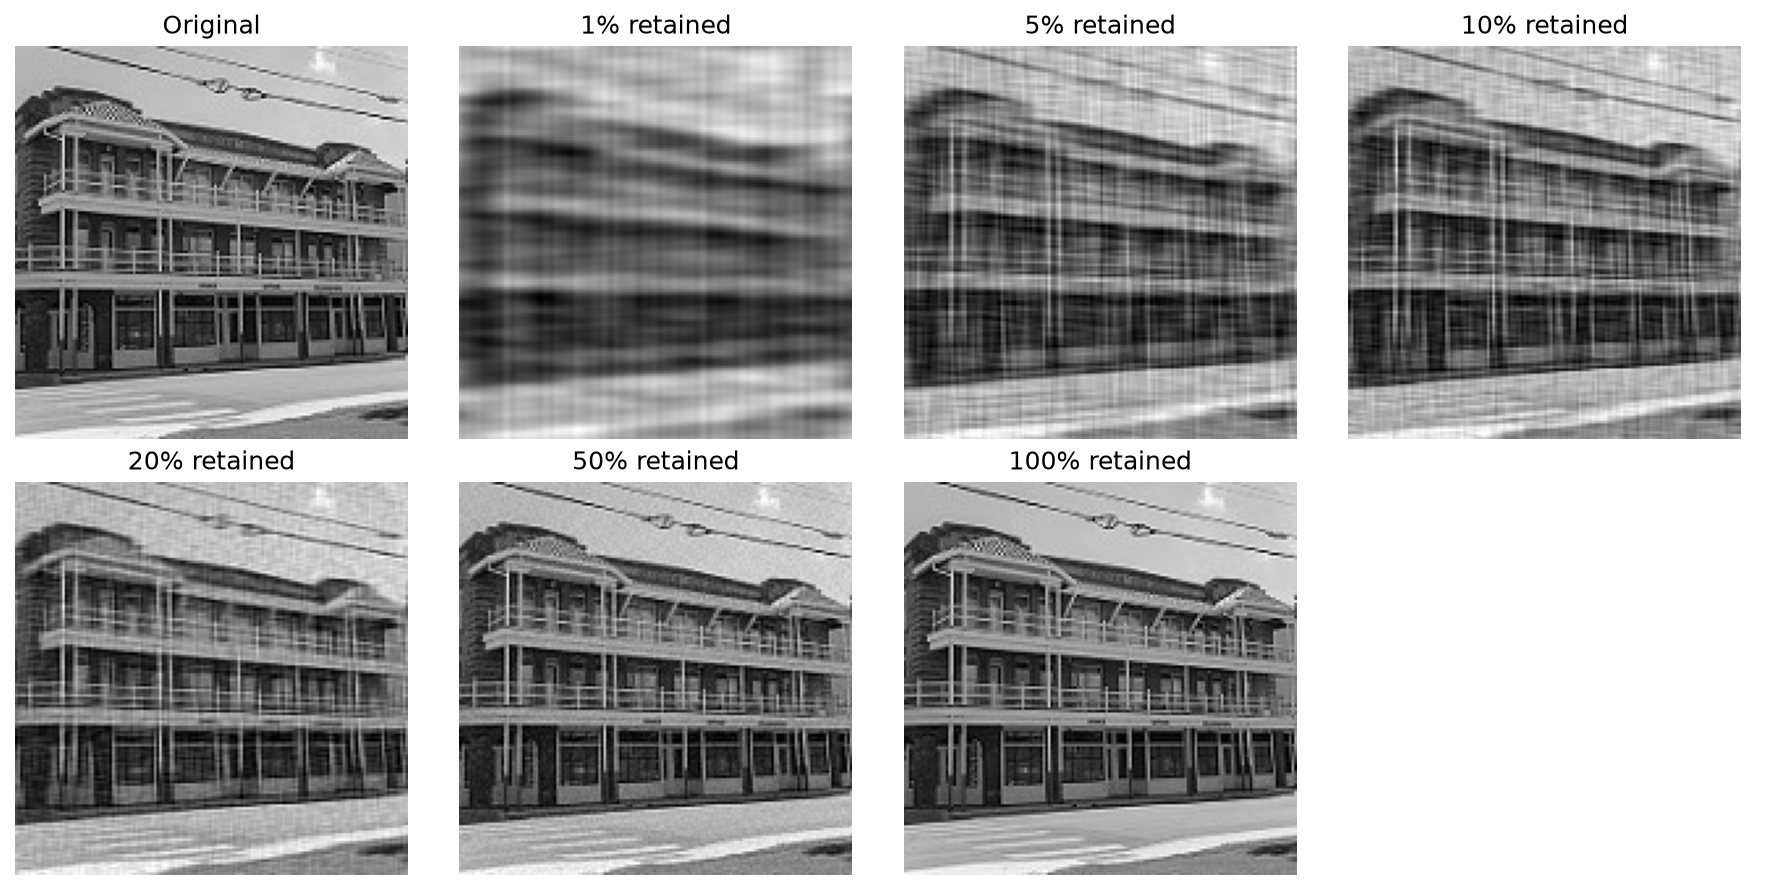
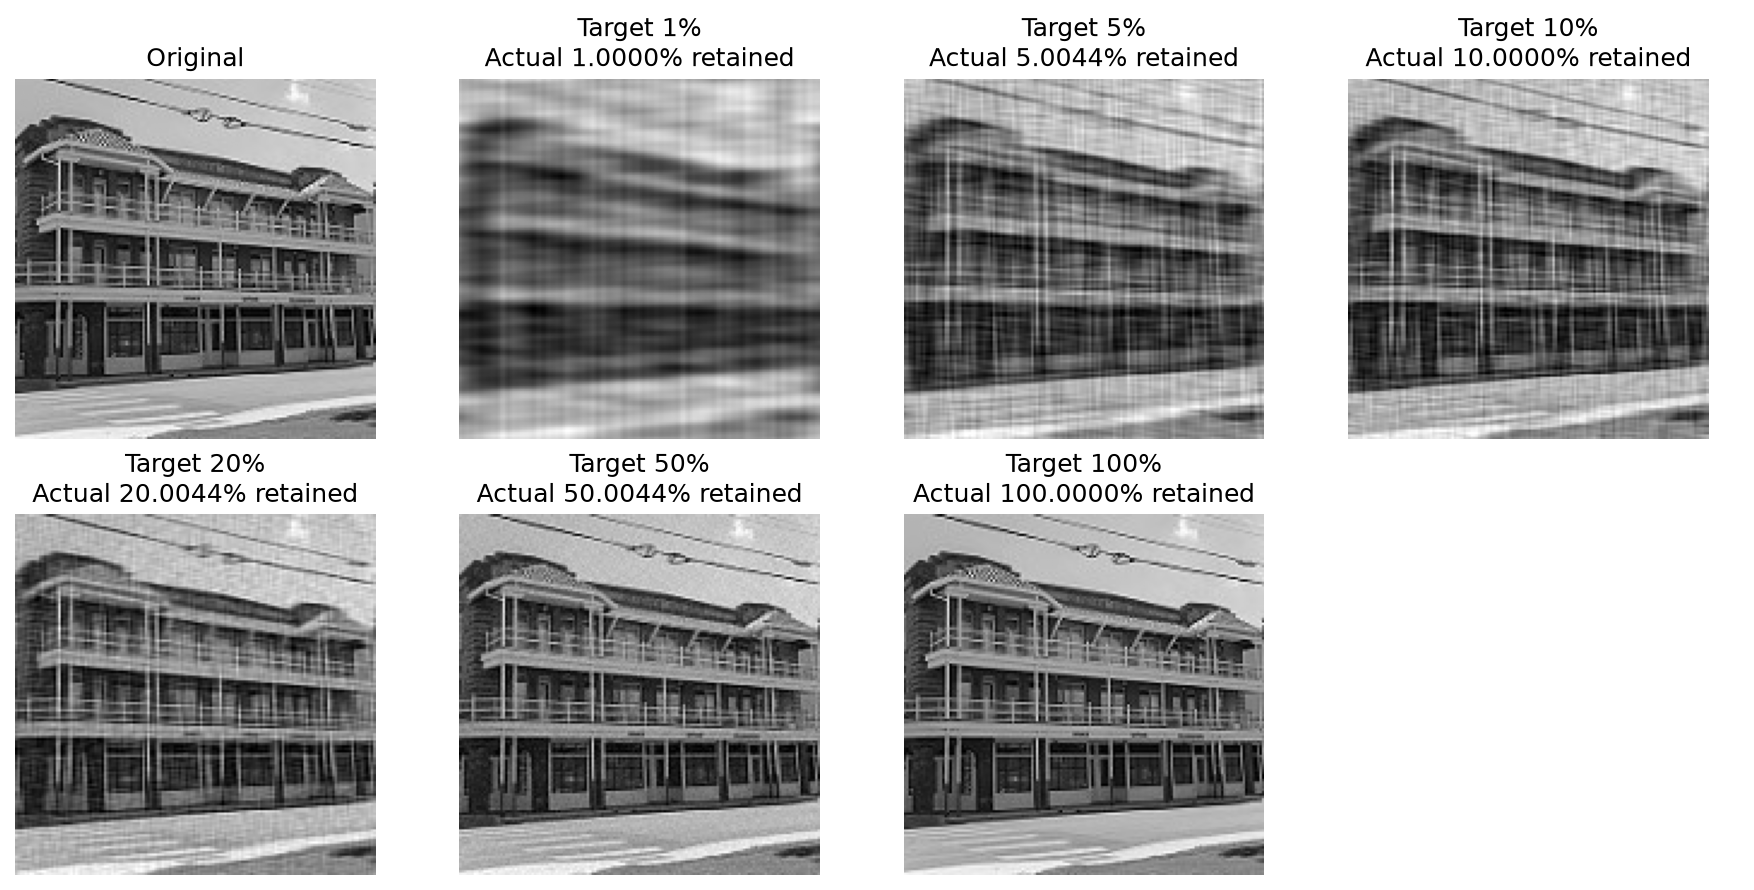
Strengthen Fourier analysis and preserve compression symmetry

diff --git a/src/fourier.py b/src/fourier.py
@@ -1,3 +1,4 @@
+import csv
 from pathlib import Path
 
 import cv2
@@ -11,6 +12,51 @@ def circular_low_pass_mask(shape, cutoff_radius):
     y, x = np.ogrid[:rows, :columns]
     distance_squared = (y - center_row) ** 2 + (x - center_column) ** 2
     return distance_squared <= cutoff_radius**2
+
+
+def retain_symmetric_coefficients(transform, percentage):
+    """Keep the strongest conjugate groups, reaching the requested count."""
+    rows, columns = transform.shape
+    row_indices, column_indices = np.indices(transform.shape)
+    indices = np.arange(transform.size)
+    partners = (
+        (-row_indices % rows) * columns + (-column_indices % columns)
+    ).ravel()
+    # Each pair is visited once; DC and other self-conjugate bins count once.
+    representatives = indices[indices <= partners]
+    magnitudes = np.abs(transform.ravel())
+    strengths = (
+        magnitudes[representatives] + magnitudes[partners[representatives]]
+    ) / 2
+    order = representatives[np.argsort(-strengths, kind="stable")]
+    requested_count = max(1, round(transform.size * percentage / 100))
+    selected = np.zeros(transform.size, dtype=bool)
+    retained_count = 0
+    for index in order:
+        partner = partners[index]
+        selected[index] = selected[partner] = True
+        retained_count += 1 if index == partner else 2
+        if retained_count >= requested_count:
+            break
+    compressed = np.where(selected, transform.ravel(), 0).reshape(transform.shape)
+    return compressed, retained_count
+
+
+def checked_real_reconstruction(transform):
+    """Check conjugate symmetry and imaginary residual before using real values."""
+    rows, columns = transform.shape
+    conjugate_partners = np.conj(transform[np.ix_(
+        -np.arange(rows) % rows, -np.arange(columns) % columns
+    )])
+    symmetry_error = float(np.max(np.abs(transform - conjugate_partners)))
+    if not np.allclose(transform, conjugate_partners, rtol=1e-12, atol=1e-8):
+        raise ValueError(f"Fourier conjugate symmetry is broken: {symmetry_error}")
+    inverse = np.fft.ifft2(transform)
+    imaginary_residual = float(np.max(np.abs(inverse.imag)))
+    tolerance = 1e-10 * max(1.0, float(np.max(np.abs(inverse.real))))
+    if imaginary_residual > tolerance:
+        raise ValueError(f"Non-negligible imaginary residual: {imaginary_residual}")
+    return inverse.real, imaginary_residual, symmetry_error
 
 
 # Shared setup
@@ -74,6 +120,7 @@ random_seed = 42
 noise_mean = 0
 noise_standard_deviation = 25
 cutoff_radii = [10, 20, 35]
+low_pass_cutoff_radii = cutoff_radii + [50, 70]
 
 random_generator = np.random.default_rng(random_seed)
 noise = random_generator.normal(
@@ -85,7 +132,10 @@ noisy_transform = np.fft.fft2(noisy_image)
 shifted_noisy_transform = np.fft.fftshift(noisy_transform)
 
 filtered_images = []
-for radius in cutoff_radii:
+low_pass_metrics = [
+    ("Noisy image", "", np.mean((image.astype(float) - noisy_image) ** 2))
+]
+for radius in low_pass_cutoff_radii:
     mask = circular_low_pass_mask(image.shape, radius)
     filtered_transform = shifted_noisy_transform * mask
 
@@ -93,8 +143,12 @@ for radius in cutoff_radii:
     filtered_image = np.fft.ifft2(np.fft.ifftshift(filtered_transform))
     filtered_image = np.clip(np.real(filtered_image), 0, 255)
     filtered_images.append(filtered_image)
+    low_pass_metrics.append((
+        "Low-pass", radius, np.mean((image.astype(float) - filtered_image) ** 2)
+    ))
 
-comparison_figure, comparison_axes = plt.subplots(1, 5, figsize=(16, 4))
+comparison_figure, comparison_axes = plt.subplots(2, 4, figsize=(12, 6))
+comparison_axes = comparison_axes.ravel()
 
 comparison_axes[0].imshow(image, cmap="gray", vmin=0, vmax=255)
 comparison_axes[0].set_title("Original")
@@ -103,13 +157,14 @@ comparison_axes[1].imshow(noisy_image, cmap="gray", vmin=0, vmax=255)
 comparison_axes[1].set_title("Gaussian noise")
 
 for axis, radius, filtered_image in zip(
-    comparison_axes[2:], cutoff_radii, filtered_images
+    comparison_axes[2:], low_pass_cutoff_radii, filtered_images
 ):
     axis.imshow(filtered_image, cmap="gray", vmin=0, vmax=255)
     axis.set_title(f"Low-pass, radius {radius}")
 
 for axis in comparison_axes:
     axis.axis("off")
+comparison_axes[-1].set_visible(False)
 
 comparison_figure.tight_layout()
 comparison_figure.savefig(low_pass_output_path, dpi=150, bbox_inches="tight")
@@ -117,8 +172,16 @@ print(
     f"Gaussian noise: mean={noise_mean}, "
     f"standard deviation={noise_standard_deviation}, seed={random_seed}"
 )
-print(f"Cutoff radii: {cutoff_radii}")
+print(f"Low-pass cutoff radii: {low_pass_cutoff_radii}")
 print(f"Low-pass comparison saved to: {low_pass_output_path}")
+low_pass_metrics_path = output_path.parent / "low_pass_metrics.csv"
+with low_pass_metrics_path.open("w", newline="", encoding="utf-8") as csv_file:
+    writer = csv.writer(csv_file, lineterminator="\n")
+    writer.writerow(["method", "cutoff_radius", "mse_against_clean"])
+    for method, radius, mse in low_pass_metrics:
+        writer.writerow([method, radius, f"{mse:.8f}"])
+        print(f"{method}, radius={radius}: MSE against clean={mse:.2f}")
+print(f"Low-pass metrics saved to: {low_pass_metrics_path}")
 
 # Task 3: High-pass filtering
 high_pass_images = []
@@ -156,30 +219,41 @@ print(f"High-pass comparison saved to: {high_pass_output_path}")
 # Task 4: Fourier compression
 retained_percentages = [1, 5, 10, 20, 50, 100]
 total_coefficients = fourier_transform.size
-flat_transform = fourier_transform.ravel()
-coefficient_order = np.argsort(np.abs(flat_transform))[::-1]
 
 reconstructed_images = []
-mse_values = []
-compression_ratios = []
+actual_percentages = []
+compression_metrics = []
 
 for percentage in retained_percentages:
-    retained_count = max(
-        1, round(total_coefficients * percentage / 100)
+    compressed_transform, retained_count = retain_symmetric_coefficients(
+        fourier_transform, percentage
     )
-    retained_indices = coefficient_order[:retained_count]
-
-    compressed_coefficients = np.zeros_like(flat_transform)
-    compressed_coefficients[retained_indices] = flat_transform[retained_indices]
-    compressed_transform = compressed_coefficients.reshape(image.shape)
-
-    reconstructed_image = np.real(np.fft.ifft2(compressed_transform))
+    reconstructed_image, imaginary_residual, symmetry_error = (
+        checked_real_reconstruction(compressed_transform)
+    )
     mse = np.mean((image.astype(float) - reconstructed_image) ** 2)
     compression_ratio = total_coefficients / retained_count
+    actual_percentage = retained_count / total_coefficients * 100
 
     reconstructed_images.append(reconstructed_image)
-    mse_values.append(mse)
-    compression_ratios.append(compression_ratio)
+    actual_percentages.append(actual_percentage)
+    compression_metrics.append((
+        percentage, actual_percentage, retained_count, mse, compression_ratio,
+        imaginary_residual, symmetry_error,
+    ))
+
+compression_csv_path = output_path.parent / "compression_metrics.csv"
+with compression_csv_path.open("w", newline="", encoding="utf-8") as csv_file:
+    writer = csv.writer(csv_file, lineterminator="\n")
+    writer.writerow([
+        "requested_percentage", "actual_retained_percentage", "retained_count",
+        "mse", "coefficient_ratio", "max_imaginary_residual", "max_symmetry_error",
+    ])
+    for requested, actual, count, mse, ratio, residual, symmetry_error in compression_metrics:
+        writer.writerow([
+            requested, f"{actual:.8f}", count, f"{mse:.8f}", f"{ratio:.8f}",
+            f"{residual:.8e}", f"{symmetry_error:.8e}",
+        ])
 
 compression_figure, compression_axes = plt.subplots(2, 4, figsize=(12, 6))
 compression_axes = compression_axes.ravel()
@@ -187,8 +261,8 @@ compression_axes = compression_axes.ravel()
 compression_axes[0].imshow(image, cmap="gray", vmin=0, vmax=255)
 compression_axes[0].set_title("Original")
 
-for axis, percentage, reconstructed_image in zip(
-    compression_axes[1:], retained_percentages, reconstructed_images
+for axis, percentage, actual_percentage, reconstructed_image in zip(
+    compression_axes[1:], retained_percentages, actual_percentages, reconstructed_images
 ):
     axis.imshow(
         np.clip(reconstructed_image, 0, 255),
@@ -196,7 +270,7 @@ for axis, percentage, reconstructed_image in zip(
         vmin=0,
         vmax=255,
     )
-    axis.set_title(f"{percentage}% retained")
+    axis.set_title(f"Target {percentage}%\nActual {actual_percentage:.4f}% retained")
 
 for axis in compression_axes:
     axis.axis("off")
@@ -206,17 +280,15 @@ compression_figure.savefig(
     compression_output_path, dpi=150, bbox_inches="tight"
 )
 
-metrics_figure, metrics_axis = plt.subplots(figsize=(6, 3))
+metrics_figure, metrics_axis = plt.subplots(figsize=(9, 3))
 metrics_axis.axis("off")
 table_rows = [
-    [f"{percentage}%", f"{mse:.2f}", f"{ratio:.1f}:1"]
-    for percentage, mse, ratio in zip(
-        retained_percentages, mse_values, compression_ratios
-    )
+    [f"{requested}%", f"{actual:.4f}%", f"{mse:.2f}", f"{ratio:.2f}:1", f"{residual:.1e}"]
+    for requested, actual, count, mse, ratio, residual, symmetry_error in compression_metrics
 ]
 metrics_table = metrics_axis.table(
     cellText=table_rows,
-    colLabels=["Coefficients retained", "MSE", "Theoretical ratio"],
+    colLabels=["Target", "Actual retained", "MSE", "Coefficient ratio", "Max |imaginary|"],
     cellLoc="center",
     loc="center",
 )
@@ -231,10 +303,12 @@ metrics_figure.savefig(
 
 print(f"Compression comparison saved to: {compression_output_path}")
 print(f"Compression metrics saved to: {compression_metrics_output_path}")
+print(f"Compression CSV saved to: {compression_csv_path}")
 print("Theoretical ratios count coefficients, not file size on disk.")
-for percentage, mse, ratio in zip(
-    retained_percentages, mse_values, compression_ratios
-):
-    print(f"{percentage:>3}% retained: MSE={mse:.2f}, ratio={ratio:.1f}:1")
+for requested, actual, count, mse, ratio, residual, symmetry_error in compression_metrics:
+    print(
+        f"Target {requested:>3}%, actual {actual:.6f}% ({count} coefficients): "
+        f"MSE={mse:.2f}, ratio={ratio:.2f}:1, max imaginary={residual:.3e}"
+    )
 
-plt.show()
+plt.close("all")
